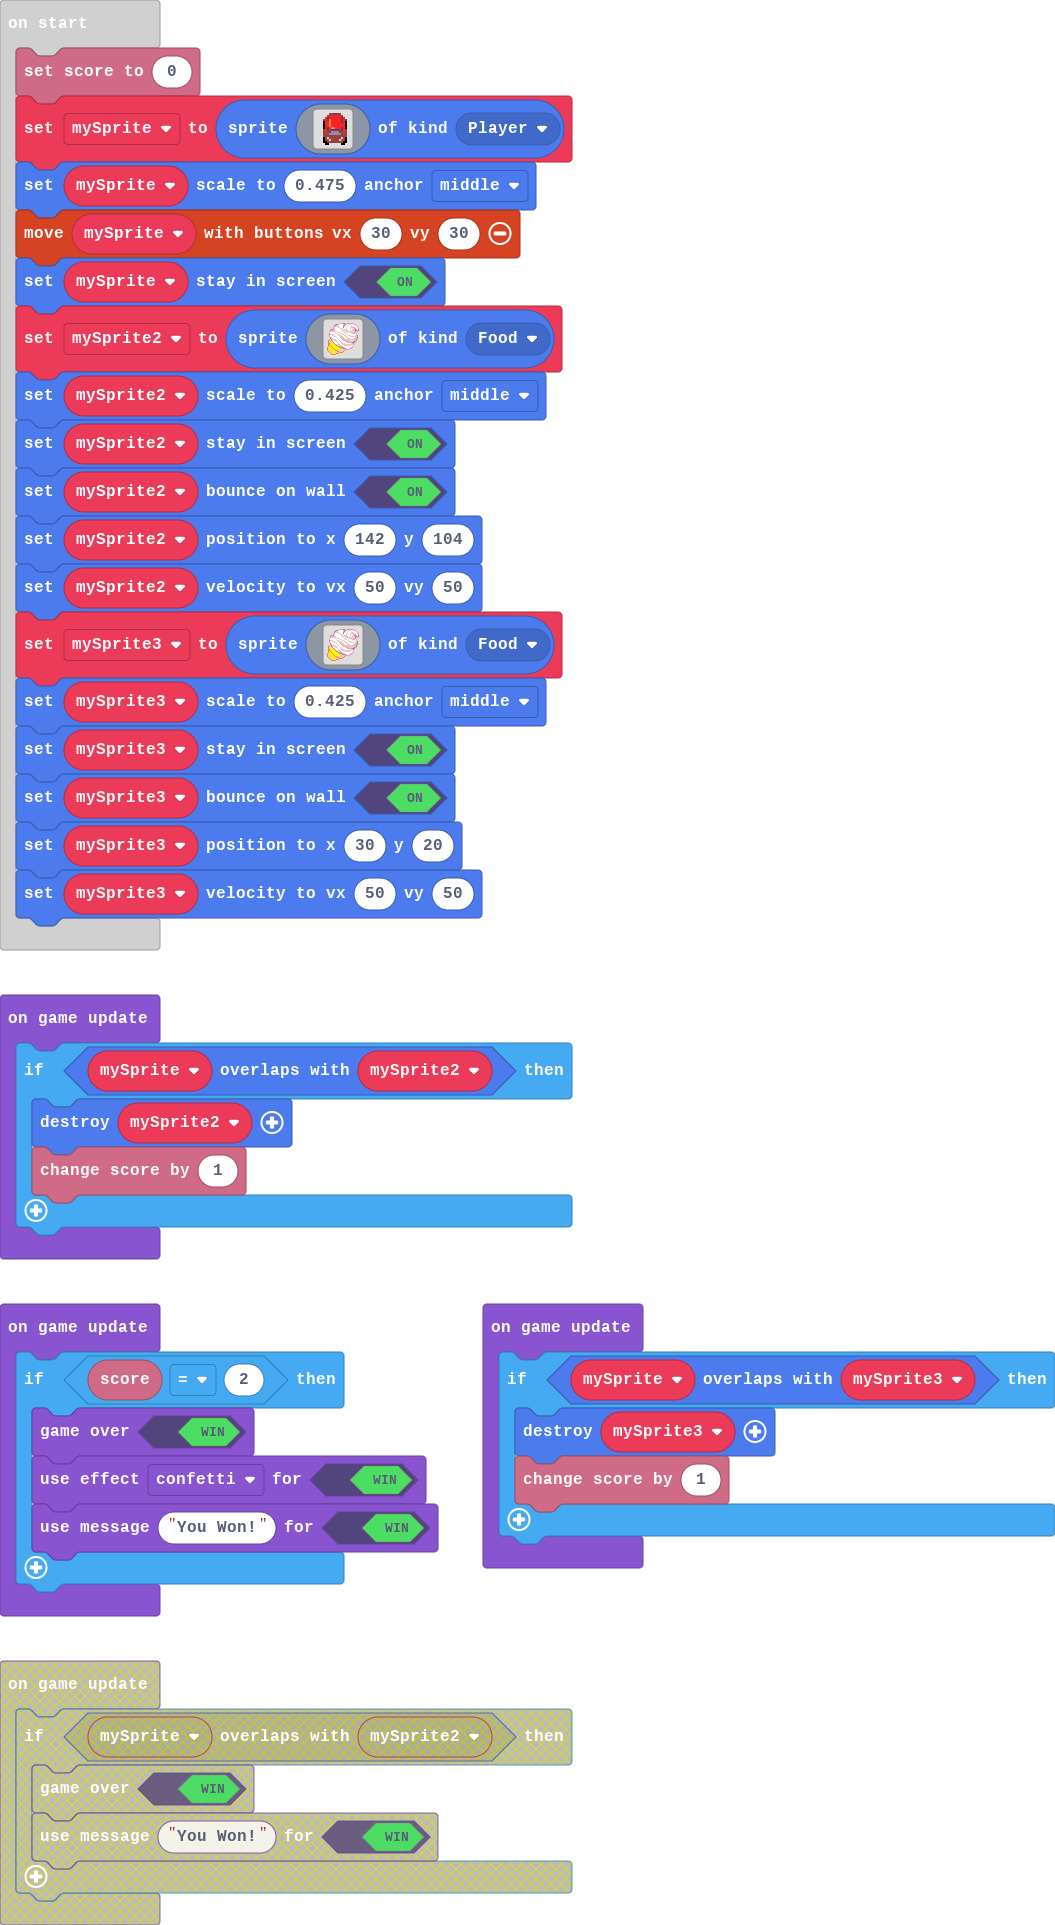
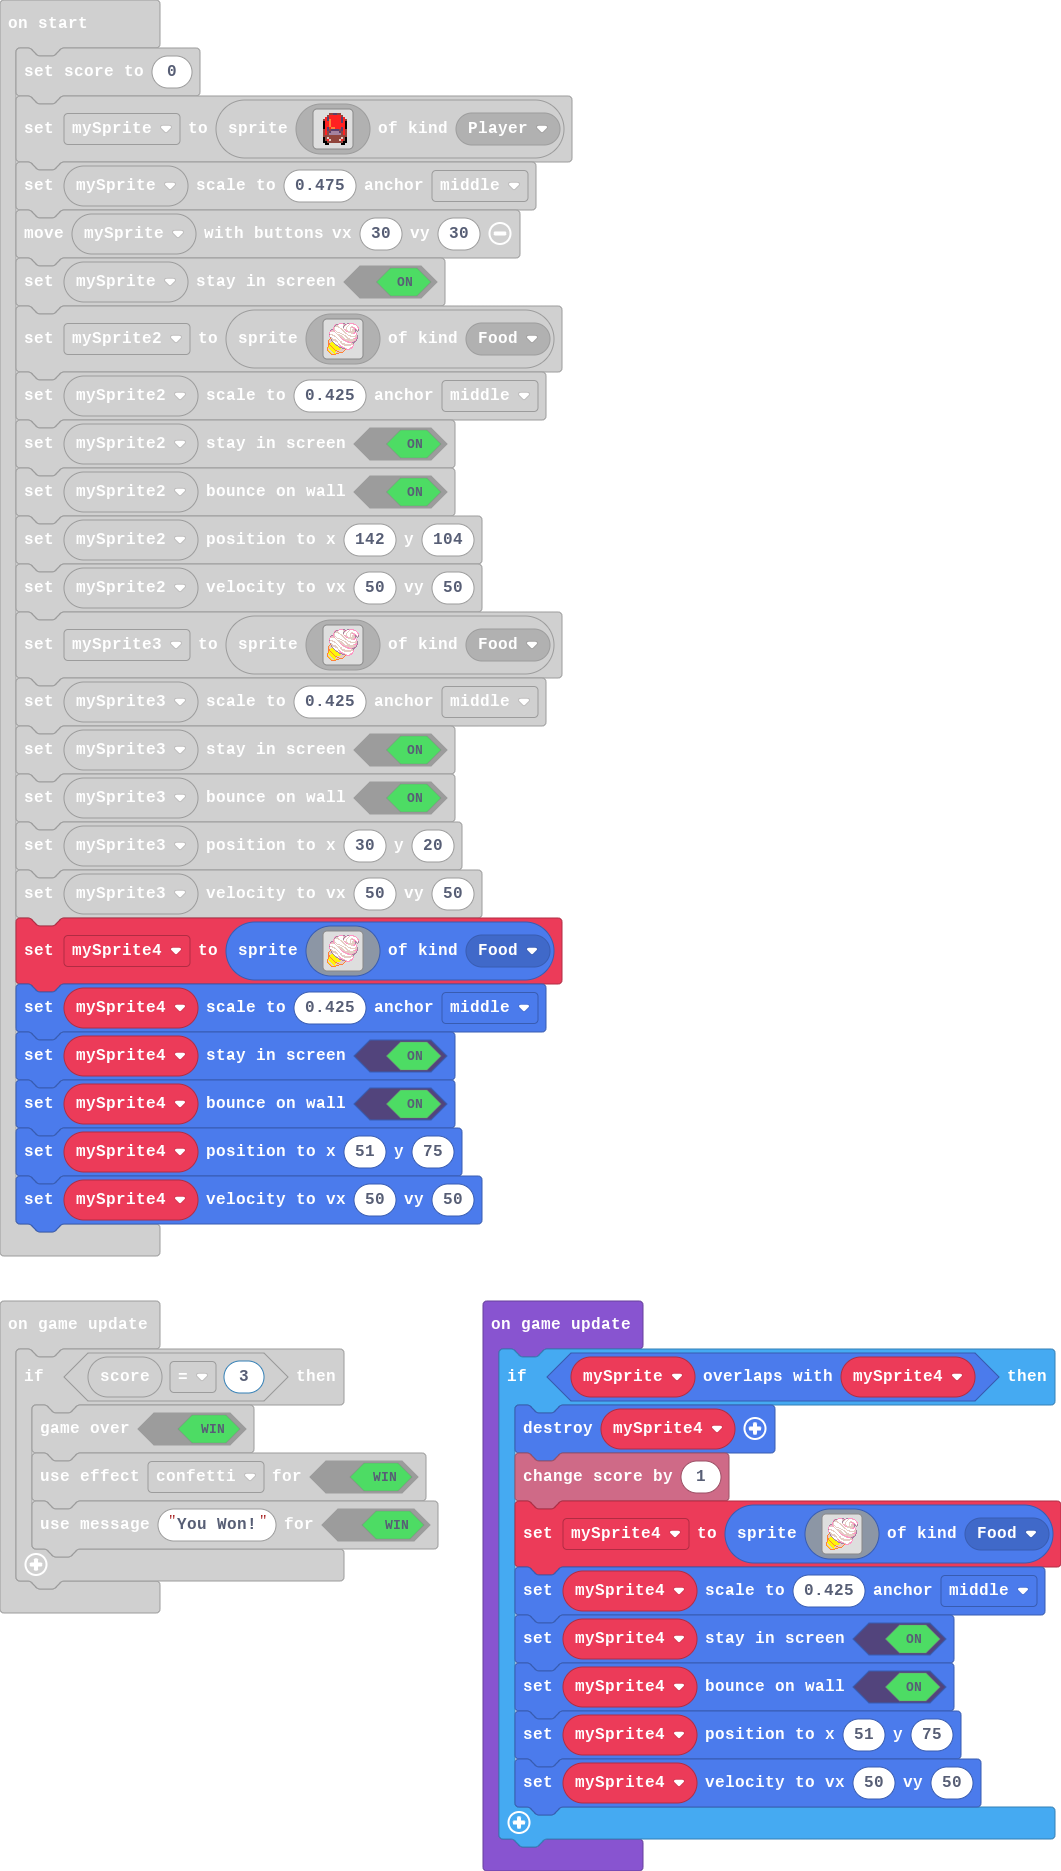
Update (Score: 3)

diff --git a/main.ts b/main.ts
@@ -15,6 +15,12 @@ mySprite3.setStayInScreen(true)
 mySprite3.setBounceOnWall(true)
 mySprite3.setPosition(30, 20)
 mySprite3.setVelocity(50, 50)
+let mySprite4 = sprites.create(assets.image`idasset-icecream`, SpriteKind.Food)
+mySprite4.setScale(0.425, ScaleAnchor.Middle)
+mySprite4.setStayInScreen(true)
+mySprite4.setBounceOnWall(true)
+mySprite4.setPosition(51, 75)
+mySprite4.setVelocity(50, 50)
 game.onUpdate(function () {
     if (mySprite.overlapsWith(mySprite2)) {
         sprites.destroy(mySprite2)
@@ -22,15 +28,27 @@ game.onUpdate(function () {
     }
 })
 game.onUpdate(function () {
-    if (info.score() == 2) {
+    if (mySprite.overlapsWith(mySprite3)) {
+        sprites.destroy(mySprite3)
+        info.changeScoreBy(1)
+    }
+})
+game.onUpdate(function () {
+    if (info.score() == 3) {
         game.gameOver(true)
         game.setGameOverEffect(true, effects.confetti)
         game.setGameOverMessage(true, "You Won!")
     }
 })
 game.onUpdate(function () {
-    if (mySprite.overlapsWith(mySprite3)) {
-        sprites.destroy(mySprite3)
+    if (mySprite.overlapsWith(mySprite4)) {
+        sprites.destroy(mySprite4)
         info.changeScoreBy(1)
+        mySprite4 = sprites.create(assets.image`idasset-icecream`, SpriteKind.Food)
+        mySprite4.setScale(0.425, ScaleAnchor.Middle)
+        mySprite4.setStayInScreen(true)
+        mySprite4.setBounceOnWall(true)
+        mySprite4.setPosition(51, 75)
+        mySprite4.setVelocity(50, 50)
     }
 })
